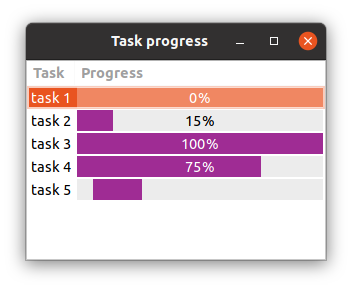
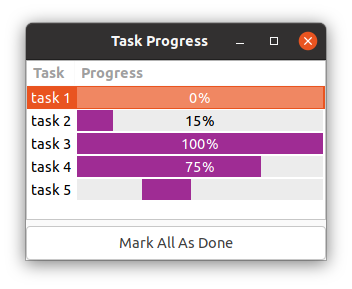
Update examples/basic_table_progress_bar.rb with a listener

diff --git a/examples/basic_table_progress_bar.rb b/examples/basic_table_progress_bar.rb
@@ -12,13 +12,23 @@ data = [
   ['task 5', -1],
 ]
 
-window('Task progress', 300, 200) {
-  horizontal_box {
+window('Task Progress', 300, 200) {
+  vertical_box {
     table {
       text_column('Task')
       progress_bar_column('Progress')
 
-      cell_rows data
+      cell_rows data # implicit data-binding
+    }
+    
+    button('Mark All As Done') {
+      stretchy false
+      
+      on_clicked do
+        data.each_with_index do |row_data, row|
+          data[row] = [row_data[0], 100] # automatically updates table due to implicit data-binding
+        end
+      end
     }
   }
 }.show

diff --git a/examples/area_gallery.rb b/examples/area_gallery.rb
@@ -27,7 +27,7 @@ window('Area Gallery', 400, 400) {
         }
 
         fill r: 202, g: 102, b: 104, a: 0.5
-        stroke thickness: 1, r: 0, g: 0, b: 0
+        stroke r: 0, g: 0, b: 0
       }
       path { # declarative stable path
         figure(0, 0) {

diff --git a/README.md b/README.md
@@ -47,13 +47,23 @@ data = [
   ['task 5', -1],
 ]
 
-window('Task progress', 300, 200) {
-  horizontal_box {
+window('Task Progress', 300, 200) {
+  vertical_box {
     table {
       text_column('Task')
       progress_bar_column('Progress')
 
-      cell_rows data
+      cell_rows data # implicit data-binding
+    }
+    
+    button('Mark All As Done') {
+      stretchy false
+      
+      on_clicked do
+        data.each_with_index do |row_data, row|
+          data[row] = [row_data[0], 100] # automatically updates table due to implicit data-binding
+        end
+      end
     }
   }
 }.show
@@ -94,7 +104,7 @@ window('Area Gallery', 400, 400) {
         }
 
         fill r: 202, g: 102, b: 104, a: 0.5
-        stroke thickness: 1, r: 0, g: 0, b: 0
+        stroke r: 0, g: 0, b: 0
       }
       path { # declarative stable path
         figure(0, 0) {
@@ -622,6 +632,7 @@ To redraw an `area`, you may call `#queue_redraw_all` method.
 
 - There is no proper way to destroy `grid` children due to [libui](https://github.com/andlabs/libui) not offering any API for deleting them from `grid` (no `grid_delete` similar to `box_delete` for `horizontal_box` and `vertical_box`).
 - `table` `checkbox_column` and `checkbox_text_column` checkbox editing only works on Windows and Linux (not Mac) due to a current limitation in [libui](https://github.com/andlabs/ui/issues/357).
+- It seems that `arc` `start_angle` and `sweep` properties are ignored by [libui](https://github.com/andlabs/libui) and always set to `0` and `360` respectively, producing a full circle.
 
 ### Original API
 
@@ -2729,13 +2740,23 @@ data = [
   ['task 5', -1],
 ]
 
-window('Task progress', 300, 200) {
-  horizontal_box {
+window('Task Progress', 300, 200) {
+  vertical_box {
     table {
       text_column('Task')
       progress_bar_column('Progress')
 
-      cell_rows data
+      cell_rows data # implicit data-binding
+    }
+    
+    button('Mark All As Done') {
+      stretchy false
+      
+      on_clicked do
+        data.each_with_index do |row_data, row|
+          data[row] = [row_data[0], 100] # automatically updates table due to implicit data-binding
+        end
+      end
     }
   }
 }.show
@@ -3247,7 +3268,7 @@ window('Area Gallery', 400, 400) {
         }
 
         fill r: 202, g: 102, b: 104, a: 0.5
-        stroke thickness: 1, r: 0, g: 0, b: 0
+        stroke r: 0, g: 0, b: 0
       }
       path { # declarative stable path
         figure(0, 0) {

diff --git a/CHANGELOG.md b/CHANGELOG.md
@@ -1,5 +1,9 @@
 # Change Log
 
+## 0.1.4
+
+- Update examples/basic_table_progress_bar.rb with a listener
+
 ## 0.1.3
 
 - New examples/area_gallery.rb
